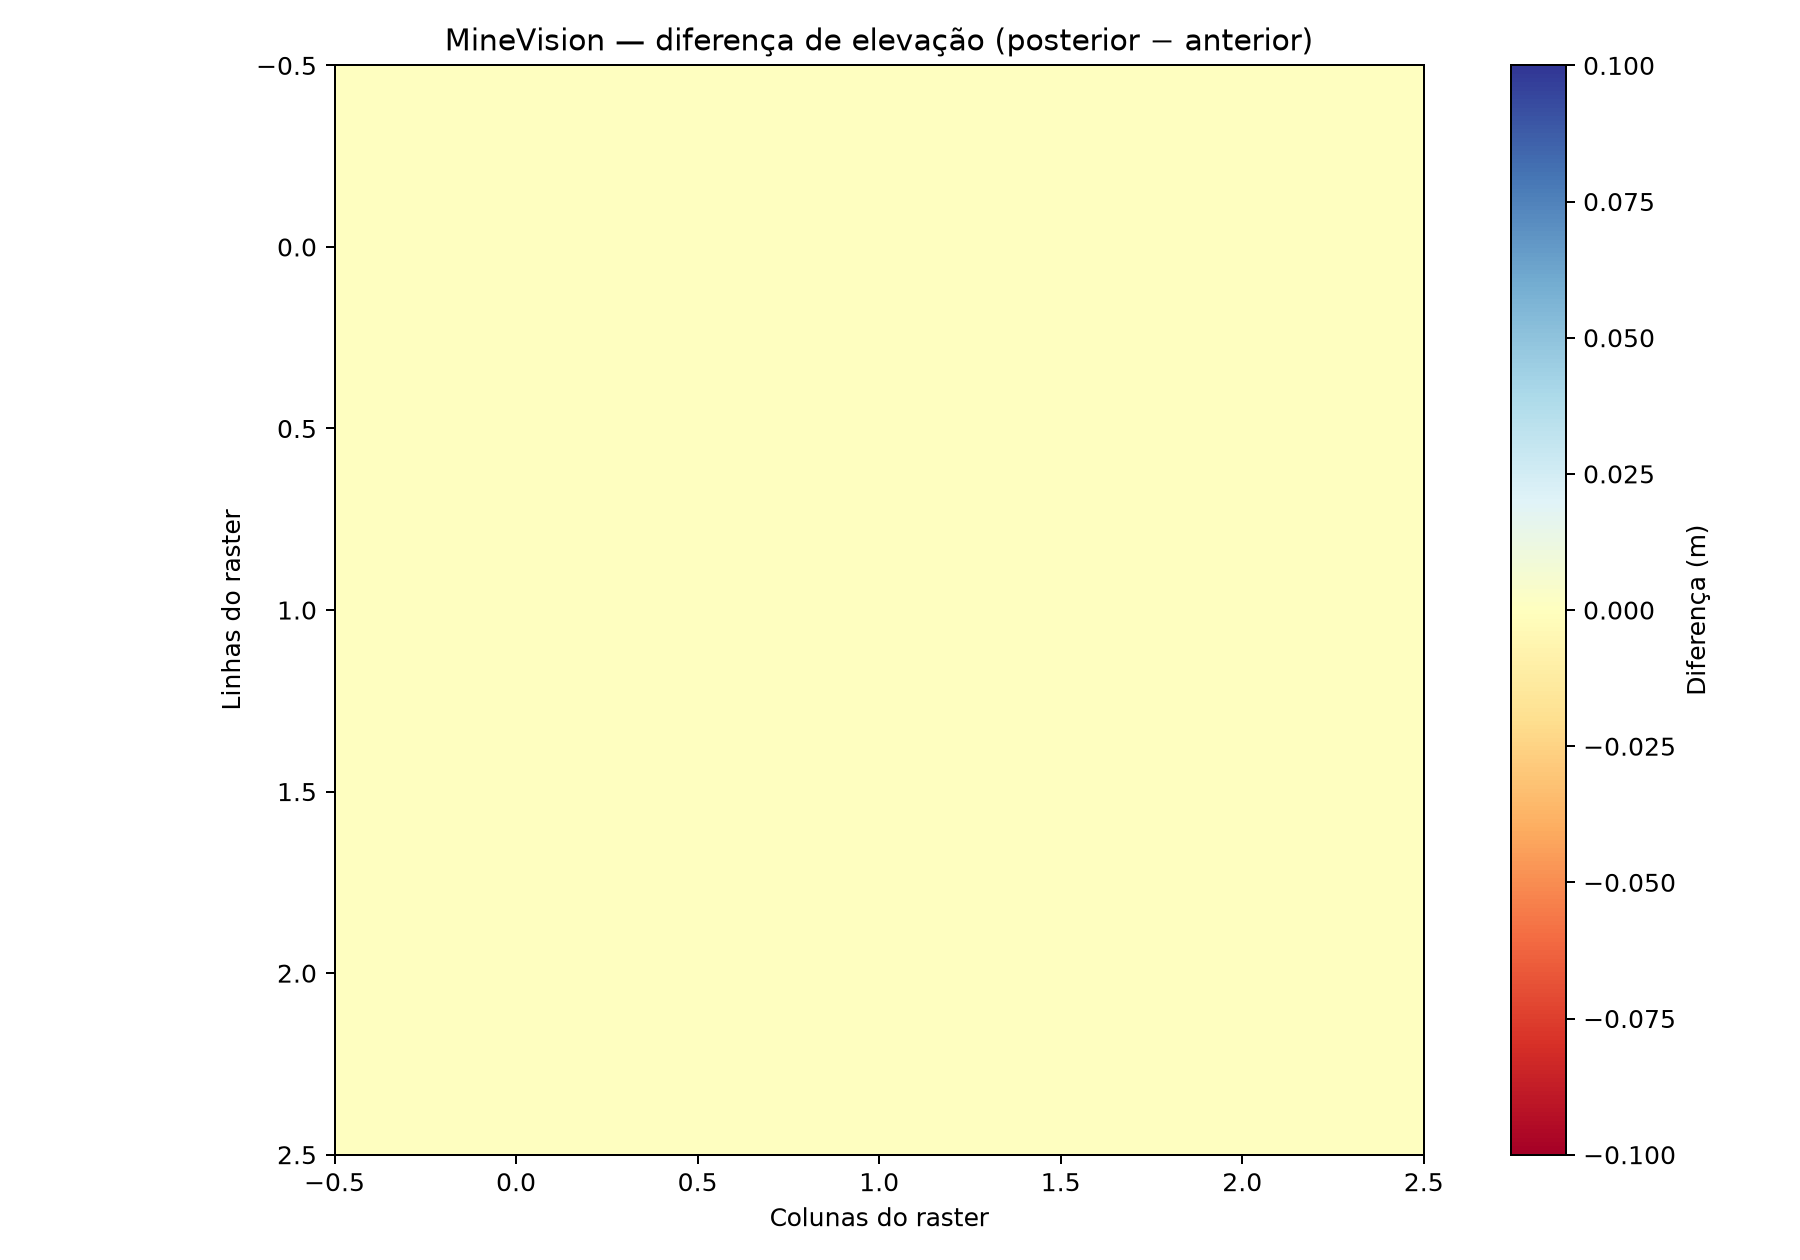
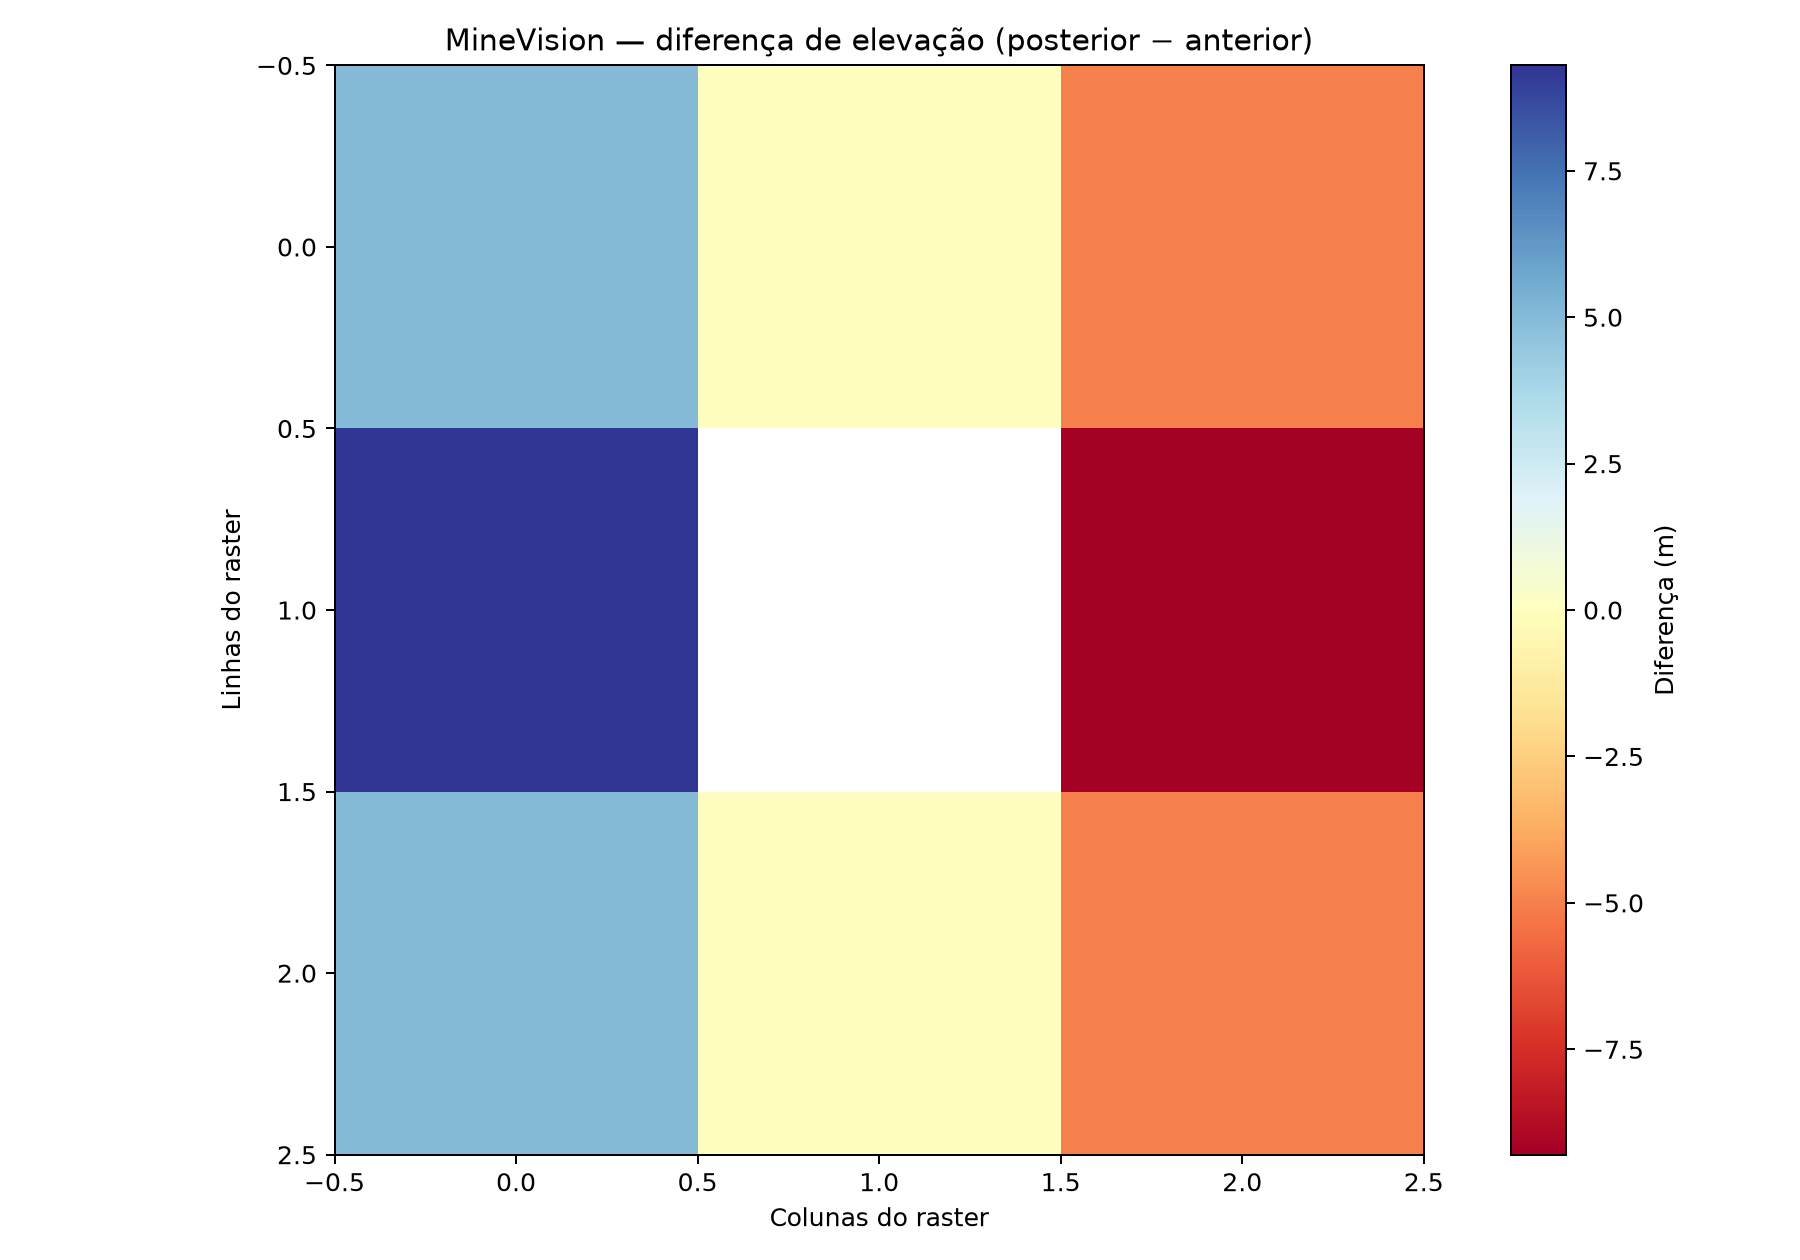
Add files via upload

diff --git a/analise-forense-terravision-matheus--main/teste_sobreposicao.py b/analise-forense-terravision-matheus--main/teste_sobreposicao.py
@@ -1,0 +1,26 @@
+
+import numpy as np
+import rasterio
+from rasterio.transform import from_origin
+
+perfil = {
+    "driver": "GTiff",
+    "height": 3,
+    "width": 3,
+    "count": 1,
+    "dtype": "float32",
+    "crs": "EPSG:4326",
+    "transform": from_origin(-49.990, -5.000, 0.001, 0.001),
+    "nodata": -9999
+}
+
+dados = np.full((3, 3), 100, dtype="float32")
+
+with rasterio.open(
+    "dados/entrada/posterior_sem_sobreposicao.tif",
+    "w",
+    **perfil
+) as arquivo:
+    arquivo.write(dados, 1)
+
+print("Raster sem sobreposição criado!")

diff --git a/analise-forense-terravision-matheus--main/resultados/relatorio_minevision.md b/analise-forense-terravision-matheus--main/resultados/relatorio_minevision.md
@@ -2,9 +2,9 @@
 
 ## Identificação
 - **Área de estudo:** Serra dos Carajás, Pará
-- **Data de processamento:** 09/11/2026 10:03
-- **MDE anterior:** `anterior.tif`
-- **MDE posterior:** `posterior_crs.tif`
+- **Data de processamento:** 09/11/2026 10:10
+- **MDE anterior:** `anterior_ausentes.tif`
+- **MDE posterior:** `posterior_ausentes.tif`
 
 ## Objetivo
 Comparar dois modelos digitais de elevação (MDEs) espacialmente alinhados para identificar diferenças na superfície representada.
@@ -19,14 +19,14 @@ Valores negativos indicam uma superfície representada mais baixa no segundo mod
 ## Resultados numéricos
 | Indicador | Resultado |
 |---|---:|
-| Pixels válidos | 9 |
+| Pixels válidos | 8 |
 | Diferença média | 0.000 m |
 | Mediana | 0.000 m |
-| Mínima | 0.000 m |
-| Máxima | 0.000 m |
-| Desvio padrão | 0.000 m |
-| Percentil 5 | 0.000 m |
-| Percentil 95 | 0.000 m |
+| Mínima | -10.000 m |
+| Máxima | 10.000 m |
+| Desvio padrão | 6.124 m |
+| Percentil 5 | -8.250 m |
+| Percentil 95 | 8.250 m |
 
 ## Metadados espaciais
 - **CRS:** EPSG:4326
